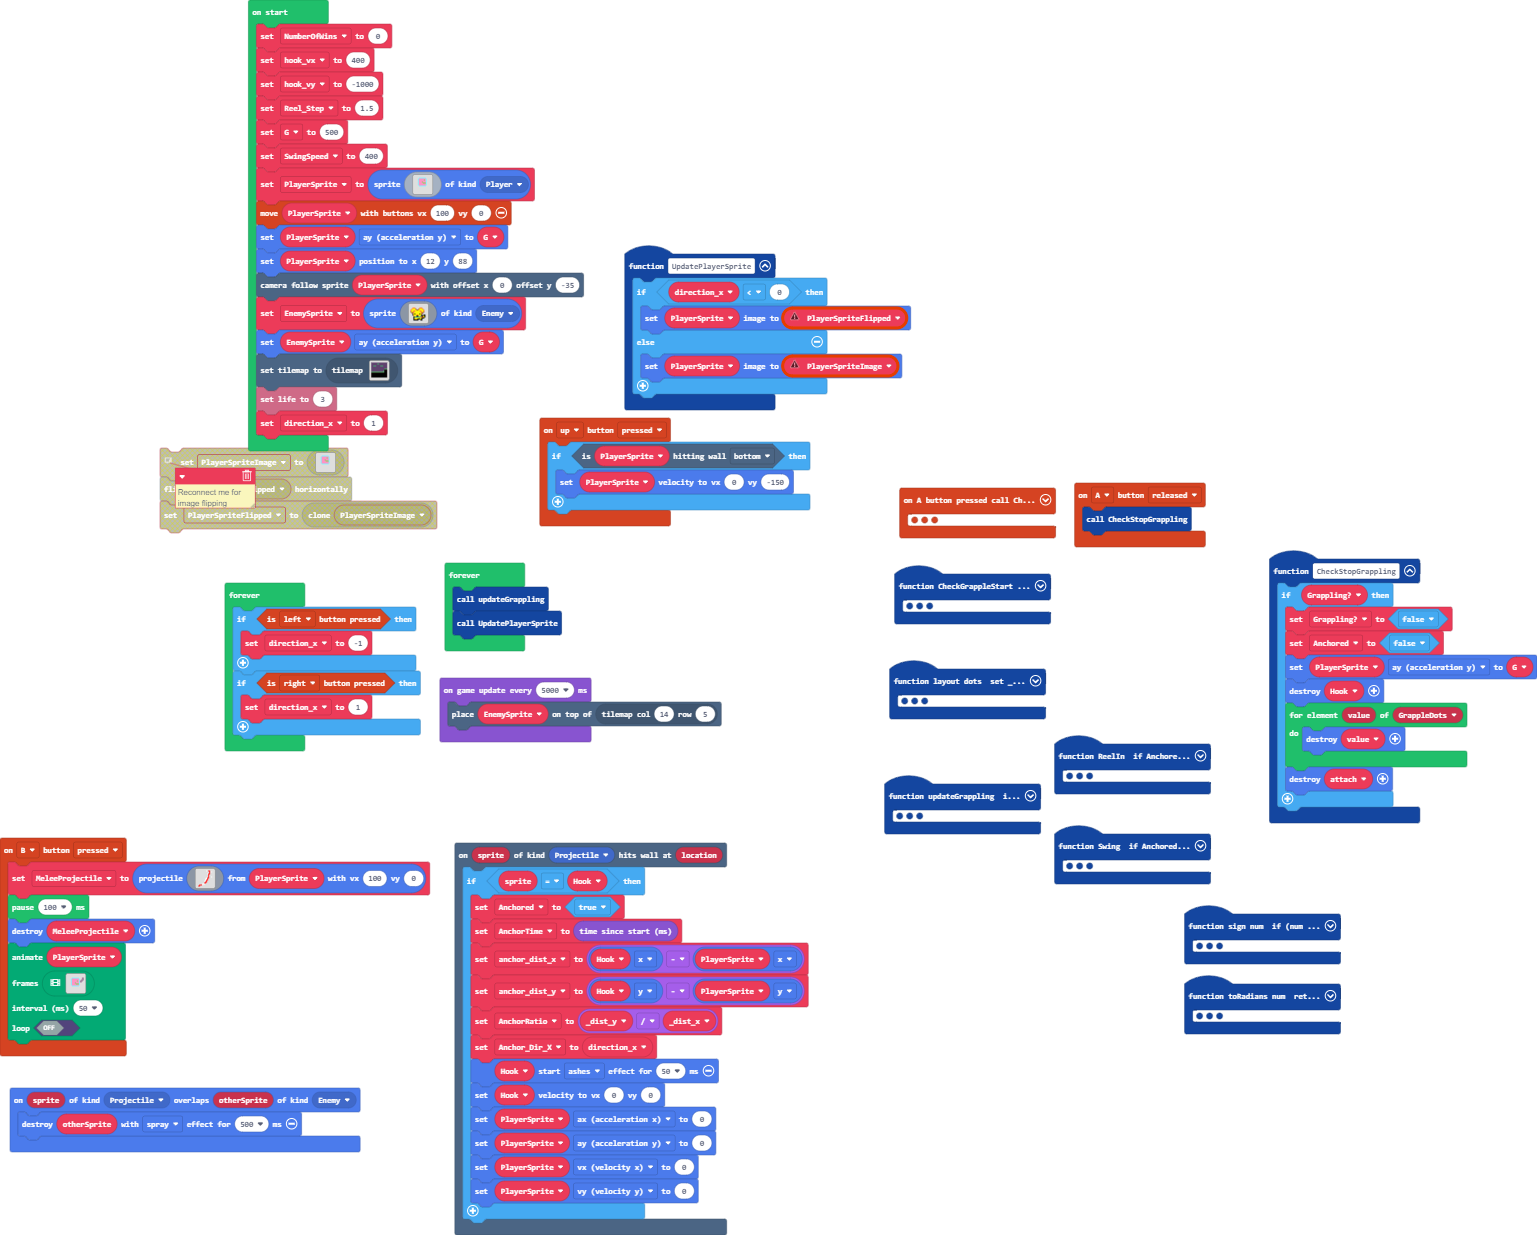
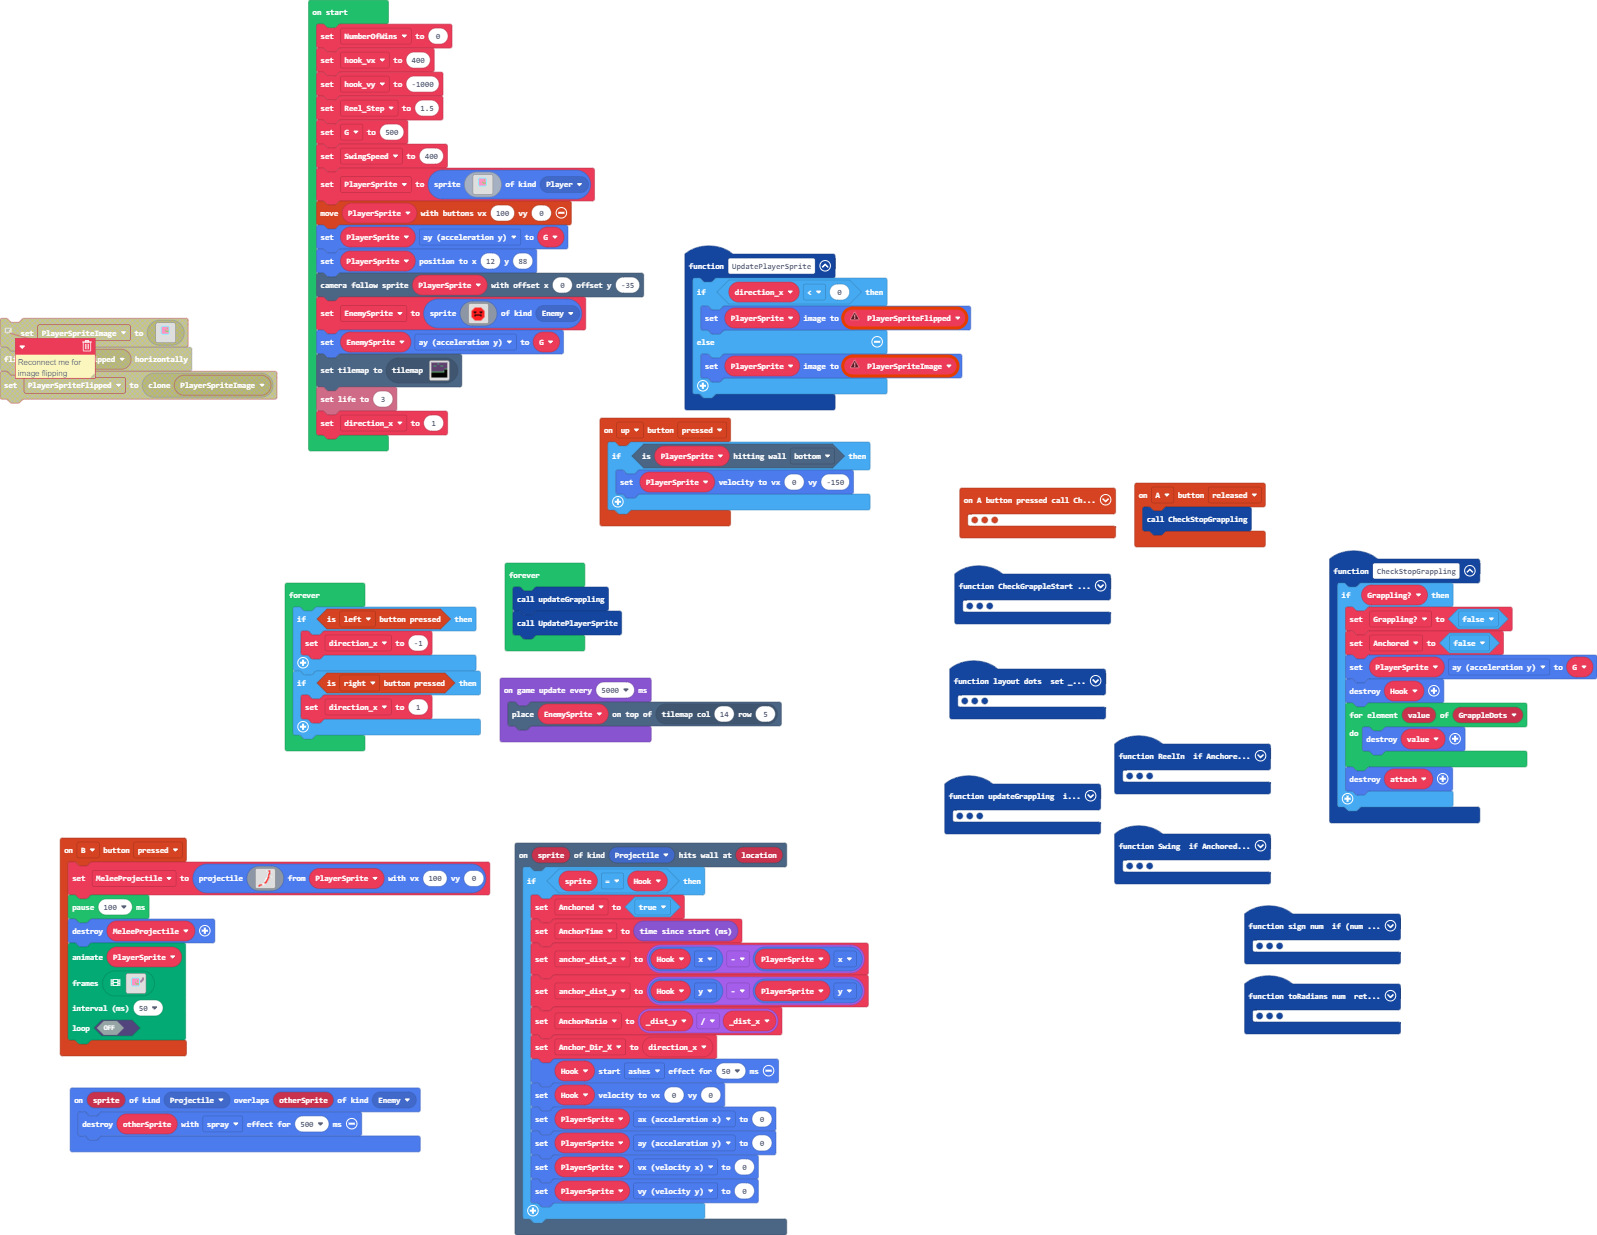
Update main.blocks, images.g.jres, images.g.ts

diff --git a/images.g.ts b/images.g.ts
@@ -149,19 +149,19 @@ namespace myImages {
             case "image1":
             case "TestEnemy":return img`
 . . . . . . . . . . . . . . . . 
-. . 4 4 4 . . . . 4 4 4 . . . . 
-. 4 5 5 5 e . . e 5 5 5 4 . . . 
-4 5 5 5 5 5 e e 5 5 5 5 5 4 . . 
-4 5 5 4 4 5 5 5 5 4 4 5 5 4 . . 
-e 5 4 4 5 5 5 5 5 5 4 4 5 e . . 
-. e e 5 5 5 5 5 5 5 5 e e . . . 
-. . e 5 f 5 5 5 5 f 5 e . . . . 
-. . f 5 5 5 4 4 5 5 5 f . f f . 
-. . . 4 5 5 f f 5 5 6 f f 5 f . 
-. . . f 6 6 6 6 6 6 4 4 4 5 f . 
-. . . f 5 5 5 5 5 5 5 f f f . . 
-. . . f 5 4 5 f f f 5 f . . . . 
-. . . f f f f f . . f f . . . . 
+. . . . 2 2 2 2 2 2 2 . . . . . 
+. . . 2 2 2 2 2 2 2 2 2 . . . . 
+. . 2 2 2 2 2 2 2 2 2 2 2 . . . 
+. 2 2 2 2 2 2 2 2 2 2 2 2 2 . . 
+. 2 2 f f f 2 2 2 f f f 2 2 . . 
+. 2 2 2 f 2 2 2 2 2 f 2 2 2 . . 
+. 2 2 2 2 2 2 2 2 2 2 2 2 2 . . 
+. 2 2 2 f f f f f f f 2 2 2 . . 
+. 2 2 2 f 2 2 2 2 2 f 2 2 2 . . 
+. 2 2 2 2 2 2 2 2 2 2 2 2 2 . . 
+. . 2 2 2 2 2 2 2 2 2 2 2 . . . 
+. . . 2 2 2 2 2 2 2 2 2 . . . . 
+. . . . 2 2 2 2 2 2 2 . . . . . 
 `;
         }
         return null;
